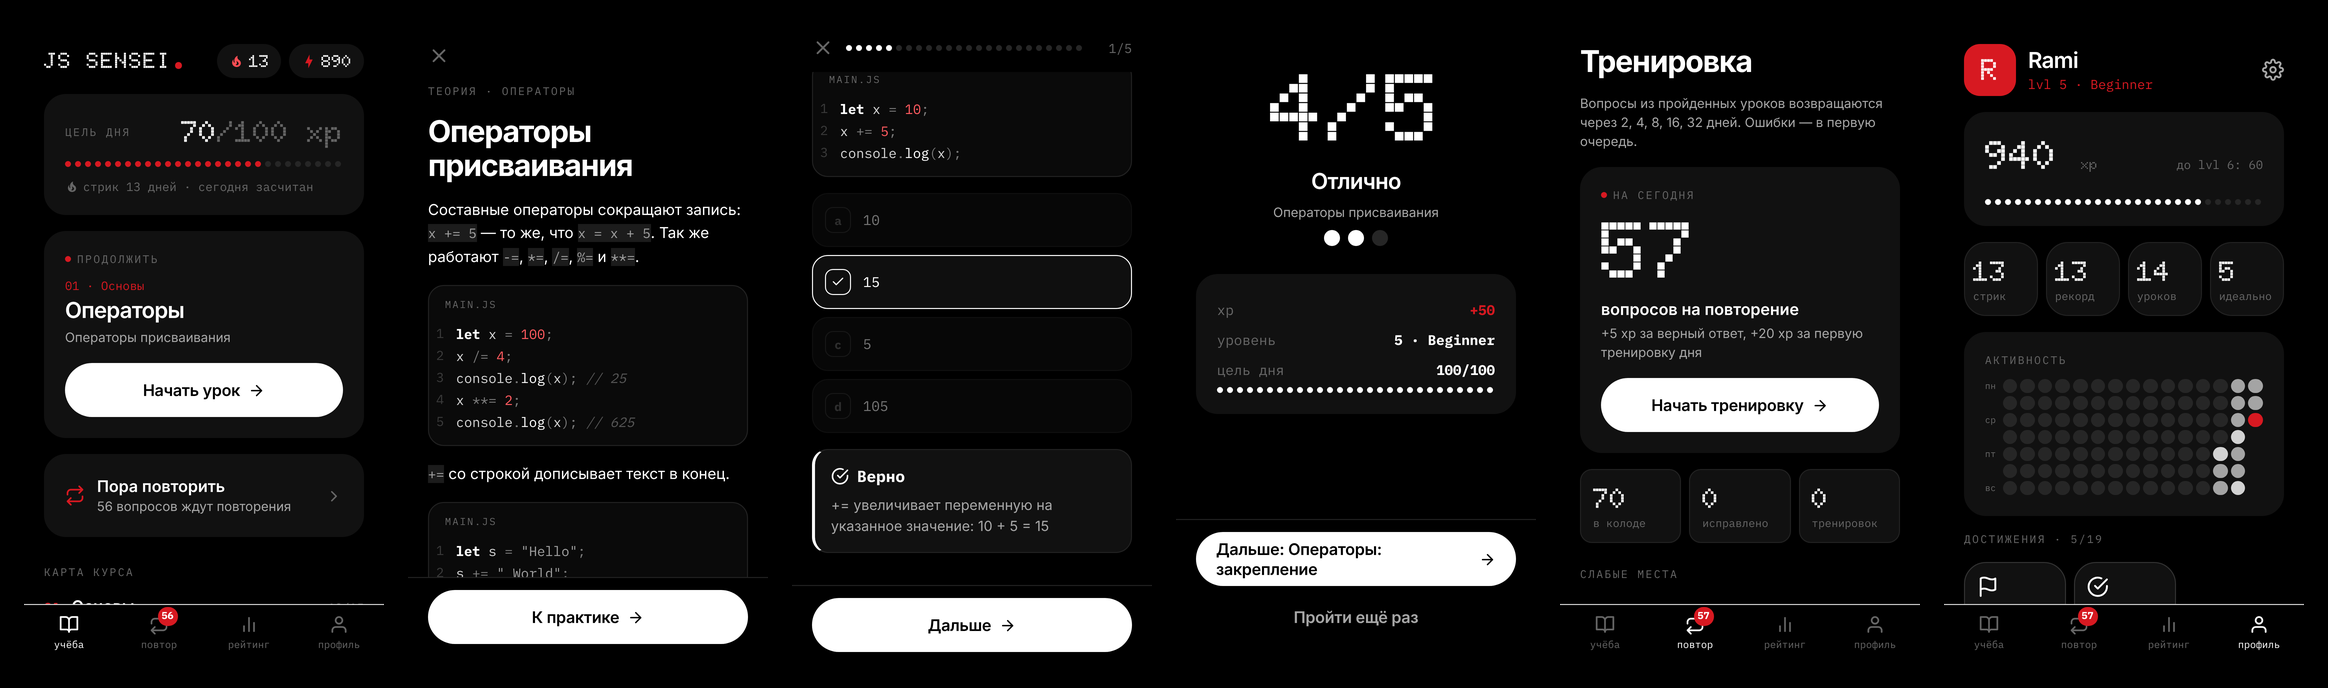
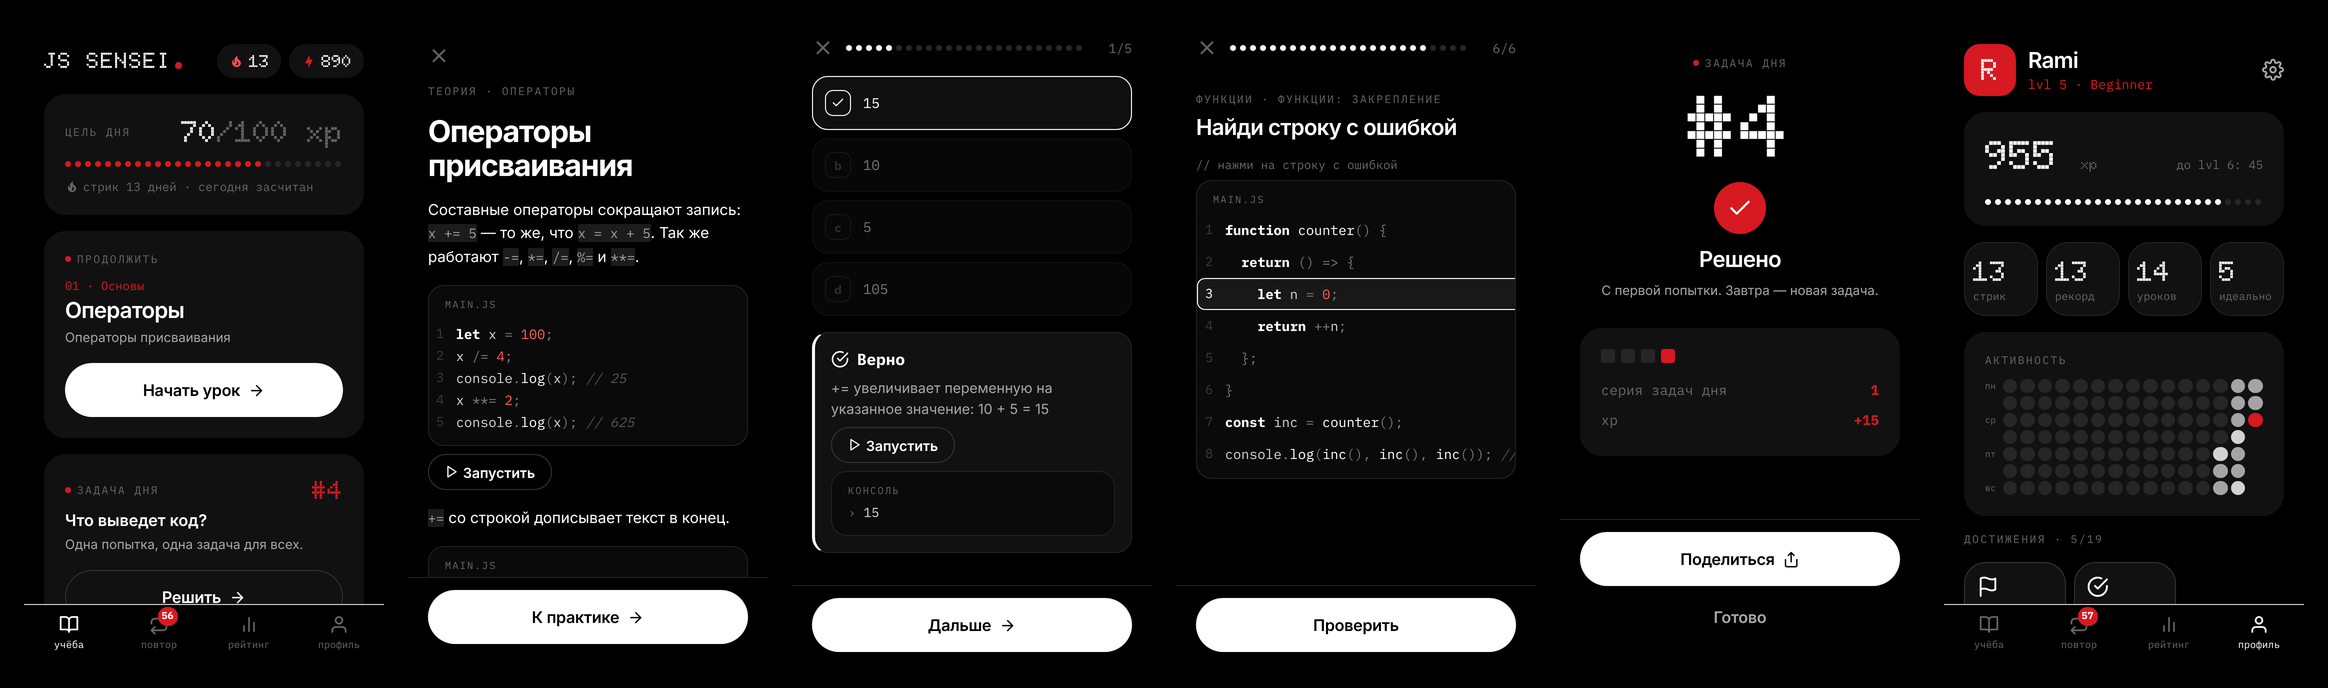
Store screenshots: run code, find-the-bug and daily challenge

diff --git a/docs/store/rustore.md b/docs/store/rustore.md
@@ -16,7 +16,7 @@ npm run build:rustore
 
 - **Пакет:** `com.jssensei.app`
 - **Иконка:** `docs/store/icon-512.png`
-- **Скриншоты** (1080×1920): `docs/store/screenshots/1-home.png` … `6-profile.png`
+- **Скриншоты** (1080×1920): `docs/store/screenshots/1-home.png` … `8-profile.png`
 - **Категория:** Образование
 - **Возрастной рейтинг:** 0+ (нет рекламы, покупок и пользовательского контента, кроме ника в рейтинге)
 
